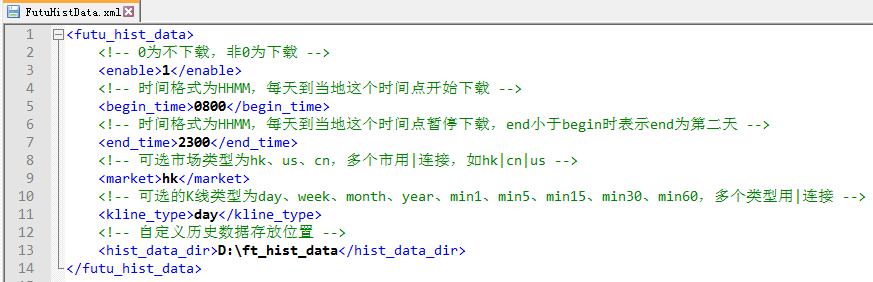
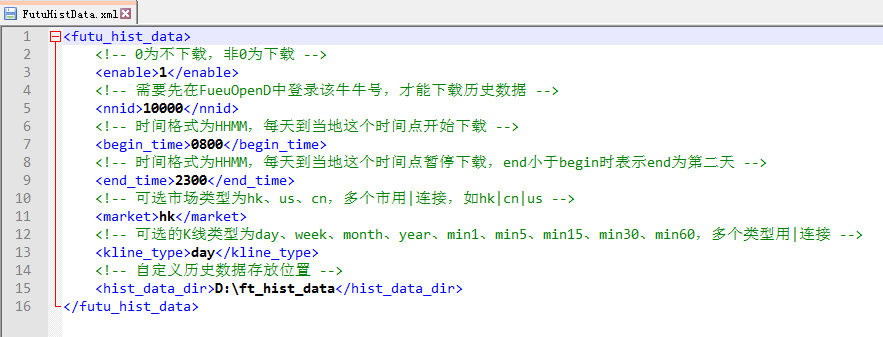
文档 历史下载数据配置文件增加牛牛号字段

Changed region(s): [[0.0, 0.0, 1.0, 1.0]]

diff --git a/docs/source/setup/FutuOpenDGuide.rst b/docs/source/setup/FutuOpenDGuide.rst
@@ -66,7 +66,8 @@ FutuHistData配置
   =================   =============================================================================================================
   键值                说明						                                                             
   =================   =============================================================================================================
-  enable              是否启用下载工具																		 
+  enable              是否启用下载工具		
+  nnid				  指定用于下载历史数据的牛牛号，需要先在FueuOpenD中登录该牛牛号，才能下载历史数据  
   begin_time          下载起始时间，时间格式为HHMM，每天到当地这个时间点开始下载                            
   end_time            下载结束时间，时间格式为HHMM，每天到当地这个时间点暂停下载，end小于start时表示end为第二天
   market              下载数据市场，可选市场类型为hk、us、cn，多个市用|连接，如hk|cn|us                  
